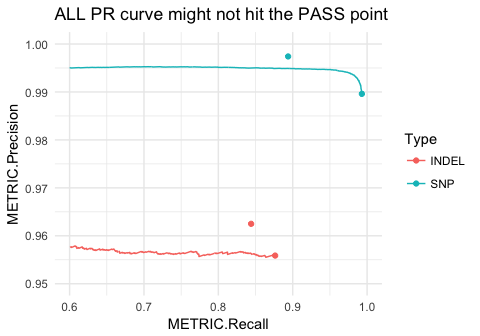
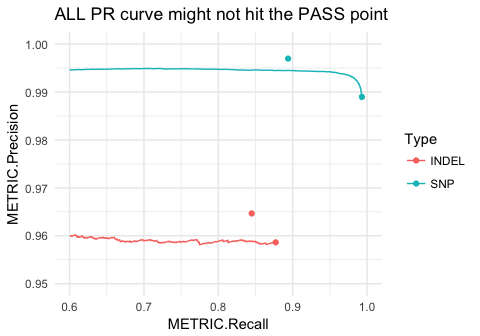
readme / docs update

diff --git a/docs/index.html b/docs/index.html
@@ -15,7 +15,7 @@
 <![endif]-->
 </head>
 <body>
-    <div class="container template-home">
+    <div class="container template-vignette">
       <header><div class="navbar navbar-default navbar-fixed-top" role="navigation">
   <div class="container">
     <div class="navbar-header">
@@ -45,8 +45,13 @@
 
       
       </header><div class="row">
-  <div class="contents col-md-9">
-    <div id="happyr" class="section level1">
+  <div class="col-md-9">
+    
+
+    
+    
+<div class="contents">
+<div id="happyr" class="section level1">
 <div class="page-header"><h1 class="hasAnchor">
 <a href="#happyr" class="anchor"></a>happyR</h1></div>
 
@@ -68,7 +73,25 @@ happy_prefix &lt;-<span class="st"> </span><span class="kw">sub</span>(<span cla
 
 <span class="co"># happy_prefix is the -o argument to hap.py, here: path/to/files/happy_demo</span>
 hapdata &lt;-<span class="st"> </span><span class="kw"><a href="reference/read_happy.html">read_happy</a></span>(happy_prefix)
+<span class="co">#&gt; Reading summary table</span>
+<span class="co">#&gt; Reading extended table</span>
+<span class="co">#&gt; Reading precision-recall curve data</span>
 hapdata
+<span class="co">#&gt;   Hap.py result containing:  summary, extended, pr_curve </span>
+<span class="co">#&gt;    Loaded from:  /Users/bmoore1/Rlibs/happyR/extdata/happy_demo  (hap.py version: v0.3.9)</span>
+<span class="co">#&gt; </span>
+<span class="co">#&gt; # A tibble: 4 x 17</span>
+<span class="co">#&gt;    Type Filter TRUTH.TOTAL TRUTH.TP TRUTH.FN QUERY.TOTAL QUERY.FP</span>
+<span class="co">#&gt;   &lt;chr&gt;  &lt;chr&gt;       &lt;int&gt;    &lt;int&gt;    &lt;int&gt;       &lt;int&gt;    &lt;int&gt;</span>
+<span class="co">#&gt; 1 INDEL    ALL        8937     7839     1098       11812      343</span>
+<span class="co">#&gt; 2 INDEL   PASS        8937     7550     1387        9971      283</span>
+<span class="co">#&gt; 3   SNP    ALL       52494    52125      369       90092      582</span>
+<span class="co">#&gt; 4   SNP   PASS       52494    46920     5574       48078      143</span>
+<span class="co">#&gt; # ... with 10 more variables: QUERY.UNK &lt;int&gt;, FP.gt &lt;int&gt;,</span>
+<span class="co">#&gt; #   METRIC.Recall &lt;dbl&gt;, METRIC.Precision &lt;dbl&gt;, METRIC.Frac_NA &lt;dbl&gt;,</span>
+<span class="co">#&gt; #   METRIC.F1_Score &lt;dbl&gt;, TRUTH.TOTAL.TiTv_ratio &lt;dbl&gt;,</span>
+<span class="co">#&gt; #   QUERY.TOTAL.TiTv_ratio &lt;dbl&gt;, TRUTH.TOTAL.het_hom_ratio &lt;dbl&gt;,</span>
+<span class="co">#&gt; #   QUERY.TOTAL.het_hom_ratio &lt;dbl&gt;</span>
 <span class="co"># Hap.py result containing:  summary, extended, pr_curve </span>
 <span class="co"># </span>
 <span class="co"># # happy_summary [4 × 16]</span>
@@ -90,10 +113,13 @@ hapdata
 <code>pr_curve</code> (from roc.*.csv.gz) - precision-recall over quality score</li>
 </ul>
 <div class="sourceCode"><pre class="sourceCode r"><code class="sourceCode r"><span class="kw">names</span>(hapdata)
+<span class="co">#&gt; [1] "summary"  "extended" "pr_curve"</span>
 <span class="co"># [1] "summary"  "extended" "pr_curve"</span>
 
 <span class="co"># e.g. here pr_curve$INDEL_PASS maps to happy_demo.roc.Locations.INDEL.PASS.csv.gz</span>
 <span class="kw">names</span>(hapdata$pr_curve)
+<span class="co">#&gt; [1] "INDEL_SEL"  "INDEL_PASS" "SNP"        "all"        "INDEL"     </span>
+<span class="co">#&gt; [6] "SNP_PASS"   "SNP_SEL"</span>
 <span class="co"># [1] "all"        "INDEL"      "INDEL_PASS" "INDEL_SEL"  "SNP"        "SNP_PASS"   "SNP_SEL"   </span></code></pre></div>
 </div>
 <div id="example-plots" class="section level2">
@@ -102,7 +128,9 @@ hapdata
 <div id="indel-subtypes" class="section level3">
 <h3 class="hasAnchor">
 <a href="#indel-subtypes" class="anchor"></a>Indel subtypes</h3>
-<div class="sourceCode"><pre class="sourceCode r"><code class="sourceCode r">## get indel subtypes from 'extended', skipping complex alleles and combined
+<div class="sourceCode"><pre class="sourceCode r"><code class="sourceCode r"><span class="kw">library</span>(ggplot2)
+
+## get indel subtypes from 'extended', skipping complex alleles and combined
 indel_extended &lt;-<span class="st"> </span><span class="kw">subset</span>(hapdata$extended, Type ==<span class="st"> "INDEL"</span> &amp;<span class="st"> </span>
 <span class="st">                         </span>Filter ==<span class="st"> "ALL"</span> &amp;<span class="st"> </span><span class="kw">grepl</span>(<span class="st">"^[DI]"</span>, Subtype))
 
@@ -113,7 +141,7 @@ indel_extended &lt;-<span class="st"> </span><span class="kw">subset</span>(hapd
 <span class="st">  </span><span class="kw">scale_color_brewer</span>(<span class="dt">palette =</span> <span class="st">"Set2"</span>) +
 <span class="st">  </span><span class="kw">scale_size</span>(<span class="dt">guide =</span> <span class="st">"none"</span>) +
 <span class="st">  </span><span class="kw">ggtitle</span>(<span class="st">"Indel subtype precision and recall"</span>)</code></pre></div>
-<p><img src="https://git.illumina.com/bmoore1/happyR/raw/master/examples/happyr_eg_indelext.png" width="600"></p>
+<p><img src="examples/README-indel_subtypes-1.png" width="480" style="display: block; margin: auto;"></p>
 </div>
 <div id="precision-recall-curves" class="section level3">
 <h3 class="hasAnchor">
@@ -127,7 +155,7 @@ all_pr &lt;-<span class="st"> </span><span class="kw">subset</span>(hapdata$pr_c
 <span class="st">  </span><span class="kw">scale_x_continuous</span>(<span class="dt">limits =</span> <span class="kw">c</span>(.<span class="dv">6</span>, <span class="dv">1</span>)) +
 <span class="st">  </span><span class="kw">scale_y_continuous</span>(<span class="dt">limits =</span> <span class="kw">c</span>(.<span class="dv">95</span>, <span class="dv">1</span>)) +
 <span class="st">  </span><span class="kw">ggtitle</span>(<span class="st">"ALL PR curve might not hit the PASS point"</span>)</code></pre></div>
-<p><img src="https://git.illumina.com/bmoore1/happyR/raw/master/examples/happyr_eg_prall.png" width="600"></p>
+<p><img src="examples/README-all_pr-1.png" width="480" style="display: block; margin: auto;"></p>
 <div class="sourceCode"><pre class="sourceCode r"><code class="sourceCode r"><span class="co"># selectively filtered PR curve</span>
 pr &lt;-<span class="st"> </span><span class="kw">subset</span>(hapdata$pr_curve$all, Filter ==<span class="st"> "SEL"</span> &amp;<span class="st"> </span>Subtype ==<span class="st"> "*"</span>)
 
@@ -140,13 +168,14 @@ pr &lt;-<span class="st"> </span>dplyr::<span class="kw">bind_rows</span>(pr, <s
 <span class="st">  </span><span class="kw">scale_x_continuous</span>(<span class="dt">limits =</span> <span class="kw">c</span>(.<span class="dv">6</span>, <span class="dv">1</span>)) +
 <span class="st">  </span><span class="kw">scale_y_continuous</span>(<span class="dt">limits =</span> <span class="kw">c</span>(.<span class="dv">95</span>, <span class="dv">1</span>)) +
 <span class="st">  </span><span class="kw">ggtitle</span>(<span class="st">"Selectively-filtered PR curve reliably hits PASS"</span>)</code></pre></div>
-<p><img src="https://git.illumina.com/bmoore1/happyR/raw/master/examples/happyr_eg_prsel.png" width="600"></p>
+<p><img src="examples/README-sel_pr-1.png" width="480" style="display: block; margin: auto;"></p>
+</div>
 </div>
 </div>
 </div>
   </div>
 
-  <div class="col-md-3" id="sidebar">
+  <div class="col-md-3 hidden-xs hidden-sm" id="sidebar">
     <h2>License</h2>
 <p><a href="https://opensource.org/licenses/mit-license.php">MIT</a></p>
 <h2>Developers</h2>
@@ -159,6 +188,7 @@ pr &lt;-<span class="st"> </span>dplyr::<span class="kw">bind_rows</span>(pr, <s
 <li><a href="https://ukch-prd-jnks01.illumina.com/job/happyR/job/master/"><img src="https://ukch-prd-jnks01.illumina.com/buildStatus/icon?job=happyR/master" alt="Build Status"></a></li>
 </ul>
 </div>
+
 </div>
 
 

diff --git a/docs/pkgdown.js b/docs/pkgdown.js
@@ -5,4 +5,41 @@ $(function() {
     offset: 60
   });
 
+  var cur_path = paths(location.pathname);
+  $("#navbar ul li a").each(function(index, value) {
+    if (value.text == "Home")
+      return;
+    if (value.getAttribute("href") === "#")
+      return;
+
+    var path = paths(value.pathname);
+    if (is_prefix(cur_path, path)) {
+      // Add class to parent <li>, and enclosing <li> if in dropdown
+      var menu_anchor = $(value);
+      menu_anchor.parent().addClass("active");
+      menu_anchor.closest("li.dropdown").addClass("active");
+    }
+  });
 });
+
+function paths(pathname) {
+  var pieces = pathname.split("/");
+  pieces.shift(); // always starts with /
+
+  var end = pieces[pieces.length - 1];
+  if (end === "index.html" || end === "")
+    pieces.pop();
+  return(pieces);
+}
+
+function is_prefix(needle, haystack) {
+  if (needle.length > haystack.lengh)
+    return(false);
+
+  for (var i = 0; i < haystack.length; i++) {
+    if (needle[i] != haystack[i])
+      return(false);
+  }
+
+  return(true);
+}

diff --git a/docs/reference/index.html b/docs/reference/index.html
@@ -23,7 +23,6 @@
 <link href="../pkgdown.css" rel="stylesheet">
 <script src="../jquery.sticky-kit.min.js"></script>
 <script src="../pkgdown.js"></script>
-
 <!-- mathjax -->
 <script src='https://mathjax.rstudio.com/latest/MathJax.js?config=TeX-AMS-MML_HTMLorMML'></script>
 
@@ -116,12 +115,6 @@
             <p><code><a href="read_happy.html">read_happy</a></code> </p>
           </td>
           <td><p>Load a hap.py results directory</p></td>
-        </tr><tr>
-          <!--  -->
-          <td>
-            <p><code><a href="read_sompy.html">read_sompy</a></code> </p>
-          </td>
-          <td><p>Load a som.py results directory</p></td>
         </tr>
       </tbody>
       </table>

diff --git a/docs/articles/index.html b/docs/articles/index.html
@@ -23,7 +23,6 @@
 <link href="../pkgdown.css" rel="stylesheet">
 <script src="../jquery.sticky-kit.min.js"></script>
 <script src="../pkgdown.js"></script>
-
 <!-- mathjax -->
 <script src='https://mathjax.rstudio.com/latest/MathJax.js?config=TeX-AMS-MML_HTMLorMML'></script>
 

diff --git a/docs/reference/c.happy_result.html b/docs/reference/c.happy_result.html
@@ -23,7 +23,6 @@
 <link href="../pkgdown.css" rel="stylesheet">
 <script src="../jquery.sticky-kit.min.js"></script>
 <script src="../pkgdown.js"></script>
-
 <!-- mathjax -->
 <script src='https://mathjax.rstudio.com/latest/MathJax.js?config=TeX-AMS-MML_HTMLorMML'></script>
 

diff --git a/docs/reference/extract.html b/docs/reference/extract.html
@@ -23,7 +23,6 @@
 <link href="../pkgdown.css" rel="stylesheet">
 <script src="../jquery.sticky-kit.min.js"></script>
 <script src="../pkgdown.js"></script>
-
 <!-- mathjax -->
 <script src='https://mathjax.rstudio.com/latest/MathJax.js?config=TeX-AMS-MML_HTMLorMML'></script>
 

diff --git a/docs/reference/print.happy_result.html b/docs/reference/print.happy_result.html
@@ -23,7 +23,6 @@
 <link href="../pkgdown.css" rel="stylesheet">
 <script src="../jquery.sticky-kit.min.js"></script>
 <script src="../pkgdown.js"></script>
-
 <!-- mathjax -->
 <script src='https://mathjax.rstudio.com/latest/MathJax.js?config=TeX-AMS-MML_HTMLorMML'></script>
 

diff --git a/docs/reference/read_happy.html b/docs/reference/read_happy.html
@@ -23,7 +23,6 @@
 <link href="../pkgdown.css" rel="stylesheet">
 <script src="../jquery.sticky-kit.min.js"></script>
 <script src="../pkgdown.js"></script>
-
 <!-- mathjax -->
 <script src='https://mathjax.rstudio.com/latest/MathJax.js?config=TeX-AMS-MML_HTMLorMML'></script>
 

diff --git a/docs/authors.html b/docs/authors.html
@@ -23,7 +23,6 @@
 <link href="pkgdown.css" rel="stylesheet">
 <script src="jquery.sticky-kit.min.js"></script>
 <script src="pkgdown.js"></script>
-
 <!-- mathjax -->
 <script src='https://mathjax.rstudio.com/latest/MathJax.js?config=TeX-AMS-MML_HTMLorMML'></script>
 

diff --git a/docs/articles/happyr.html b/docs/articles/happyr.html
@@ -50,7 +50,7 @@
       <h1>Loading hap.py data into R with happyR</h1>
                         <h4 class="author">Ben Moore</h4>
             
-            <h4 class="date">2017-05-02</h4>
+            <h4 class="date">2017-06-22</h4>
           </div>
 
     

diff --git a/docs/pkgdown.css b/docs/pkgdown.css
@@ -34,6 +34,10 @@ img.icon {
   float: right;
 }
 
+img {
+  max-width: 100%;
+}
+
 /* Section anchors ---------------------------------*/
 
 a.anchor {

diff --git a/README.md b/README.md
@@ -32,19 +32,20 @@ hapdata <- read_happy(happy_prefix)
 #> Reading precision-recall curve data
 hapdata
 #>   Hap.py result containing:  summary, extended, pr_curve 
-#>    Loaded from  /Users/bmoore1/Rlibs/happyR/extdata/happy_demo 
+#>    Loaded from:  /Users/bmoore1/Rlibs/happyR/extdata/happy_demo  (hap.py version: v0.3.9)
 #> 
-#> # A tibble: 4 x 16
+#> # A tibble: 4 x 17
 #>    Type Filter TRUTH.TOTAL TRUTH.TP TRUTH.FN QUERY.TOTAL QUERY.FP
 #>   <chr>  <chr>       <int>    <int>    <int>       <int>    <int>
-#> 1 INDEL    ALL        8946     7840     1106       11811      367
-#> 2 INDEL   PASS        8946     7551     1395        9970      301
-#> 3   SNP    ALL       52494    52125      369       90092      548
-#> 4   SNP   PASS       52494    46920     5574       48078      122
-#> # ... with 9 more variables: QUERY.UNK <int>, FP.gt <int>,
+#> 1 INDEL    ALL        8937     7839     1098       11812      343
+#> 2 INDEL   PASS        8937     7550     1387        9971      283
+#> 3   SNP    ALL       52494    52125      369       90092      582
+#> 4   SNP   PASS       52494    46920     5574       48078      143
+#> # ... with 10 more variables: QUERY.UNK <int>, FP.gt <int>,
 #> #   METRIC.Recall <dbl>, METRIC.Precision <dbl>, METRIC.Frac_NA <dbl>,
-#> #   TRUTH.TOTAL.TiTv_ratio <dbl>, QUERY.TOTAL.TiTv_ratio <dbl>,
-#> #   TRUTH.TOTAL.het_hom_ratio <dbl>, QUERY.TOTAL.het_hom_ratio <dbl>
+#> #   METRIC.F1_Score <dbl>, TRUTH.TOTAL.TiTv_ratio <dbl>,
+#> #   QUERY.TOTAL.TiTv_ratio <dbl>, TRUTH.TOTAL.het_hom_ratio <dbl>,
+#> #   QUERY.TOTAL.het_hom_ratio <dbl>
 # Hap.py result containing:  summary, extended, pr_curve 
 # 
 # # happy_summary [4 × 16]
@@ -81,6 +82,8 @@ Example plots
 
 ### Indel subtypes
 
+Here subtypes are categories based on the variant type and length (e.g. `I6_15` are insertions of length 6 bp up to 15 bp). Genomic subsets are `*` for all, `TS_contained` for truth variants fully-contained with confident regions and `TS_boundary` for truth variants near the edge of a confident region block. See [hap.py docs](https://github.com/Illumina/hap.py/blob/master/doc/happy.md) for more info.
+
 ``` r
 library(ggplot2)
 
@@ -90,7 +93,7 @@ indel_extended <- subset(hapdata$extended, Type == "INDEL" &
 
 # Precision-recall by subtype, scaled by number in truthset
 ggplot(indel_extended, aes(x = METRIC.Recall, y = METRIC.Precision, 
-                           col = Subtype, size = TRUTH.TOTAL)) +
+                           col = Subtype, size = TRUTH.TOTAL, shape=Subset)) +
   geom_point() + theme_minimal() + 
   scale_color_brewer(palette = "Set2") +
   scale_size(guide = "none") +
@@ -101,9 +104,13 @@ ggplot(indel_extended, aes(x = METRIC.Recall, y = METRIC.Precision,
 
 ### Precision-recall curves
 
+Precision-Recall (PR) curves show how precision and recall vary with a changing threshold, in this example it's over a range of quality score thresholds: as the threshold increases, the remaining variant set is less comprehensive (lower recall) but typically contains fewer false positives (higher precision).
+
+This gets more complicated when `PASS` records aren't set solely by a single quality score threshold, but by multiple independent filters (e.g. high-depth, genomic context, etc.). These interactions can't be fully captured by drawing a PR curve only on a quality threshold:
+
 ``` r
 # PR curve starting at ALL point
-all_pr <- subset(hapdata$pr_curve$all, Filter == "ALL" & Subtype == "*")
+all_pr <- subset(hapdata$pr_curve$all, Filter == "ALL" & Subtype == "*" & Subset == "*")
 
 ggplot(all_pr, aes(x = METRIC.Recall, y = METRIC.Precision, col = Type)) +
   geom_line() + theme_minimal() +
@@ -115,9 +122,11 @@ ggplot(all_pr, aes(x = METRIC.Recall, y = METRIC.Precision, col = Type)) +
 
 <img src="examples/README-all_pr-1.png" style="display: block; margin: auto;" />
 
+Hap.py accounts for this by generating a selectively-filtered PR curve (`SEL`). First hap.py applies these independent filters to the variant set, then we can draw the remaining PR curve using the quality score threshold.
+
 ``` r
 # selectively filtered PR curve
-pr <- subset(hapdata$pr_curve$all, Filter == "SEL" & Subtype == "*")
+pr <- subset(hapdata$pr_curve$all, Filter == "SEL" & Subtype == "*" & Subset == "*")
 
 # link this to the ALL point
 pr <- dplyr::bind_rows(pr, subset(hapdata$summary, Filter == "ALL"))
